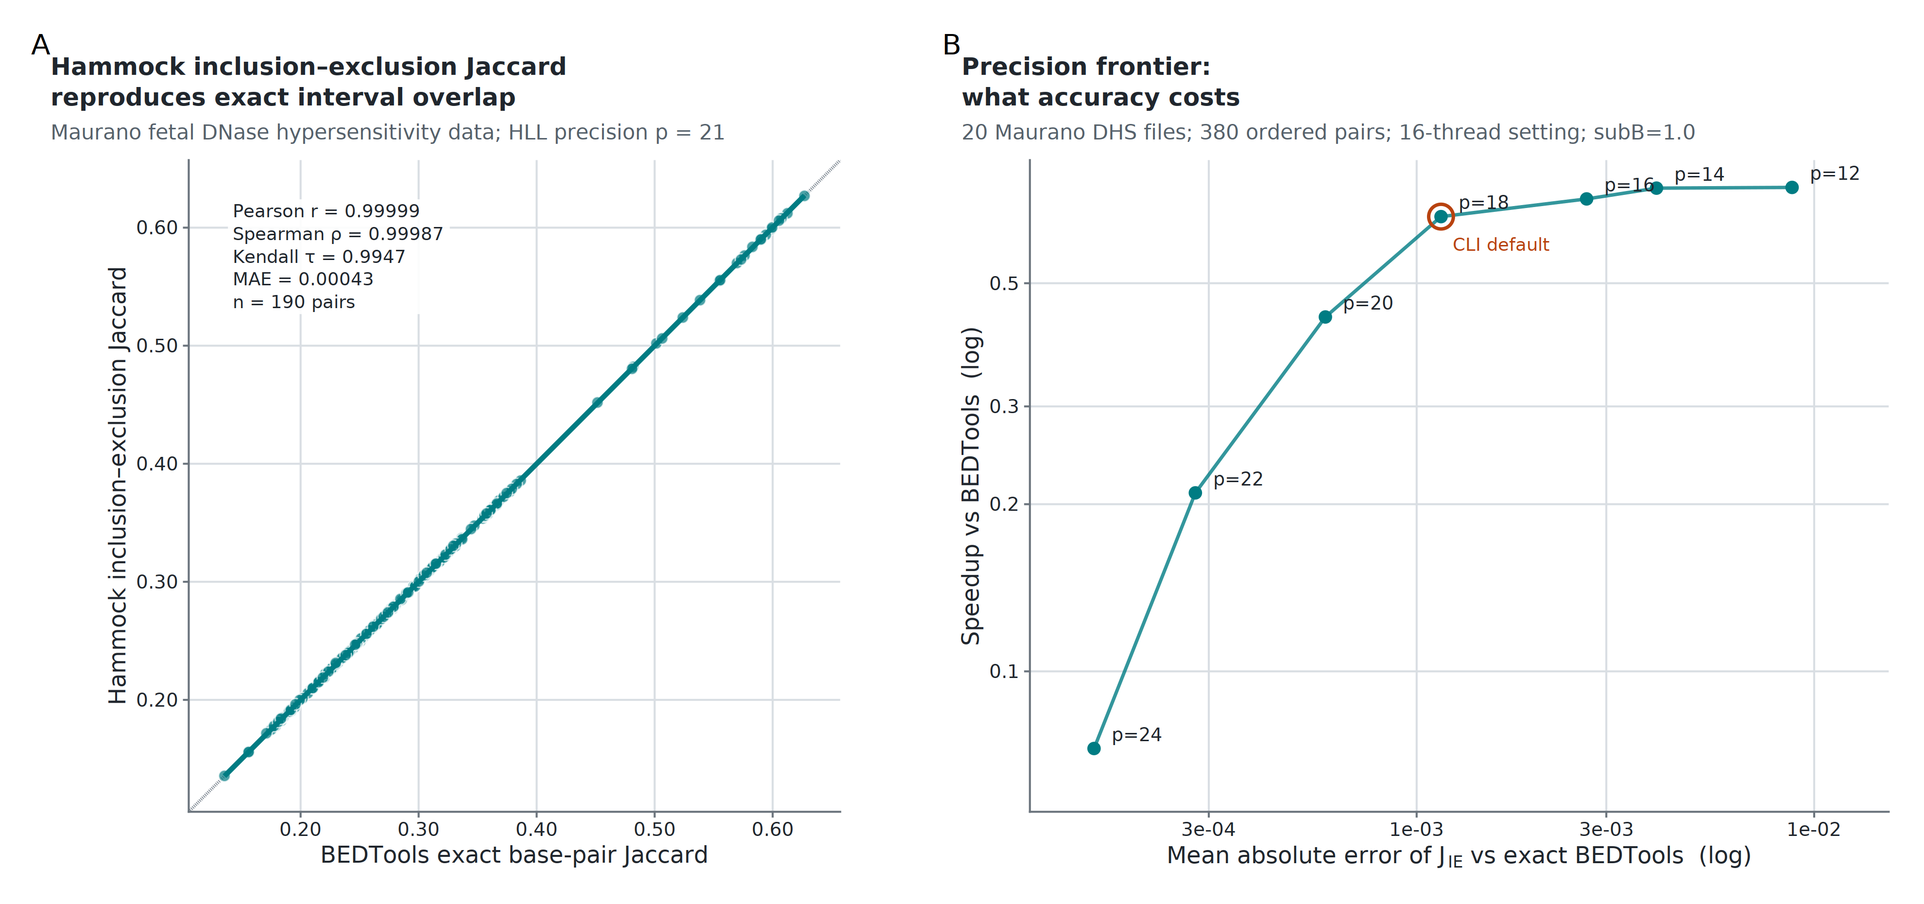
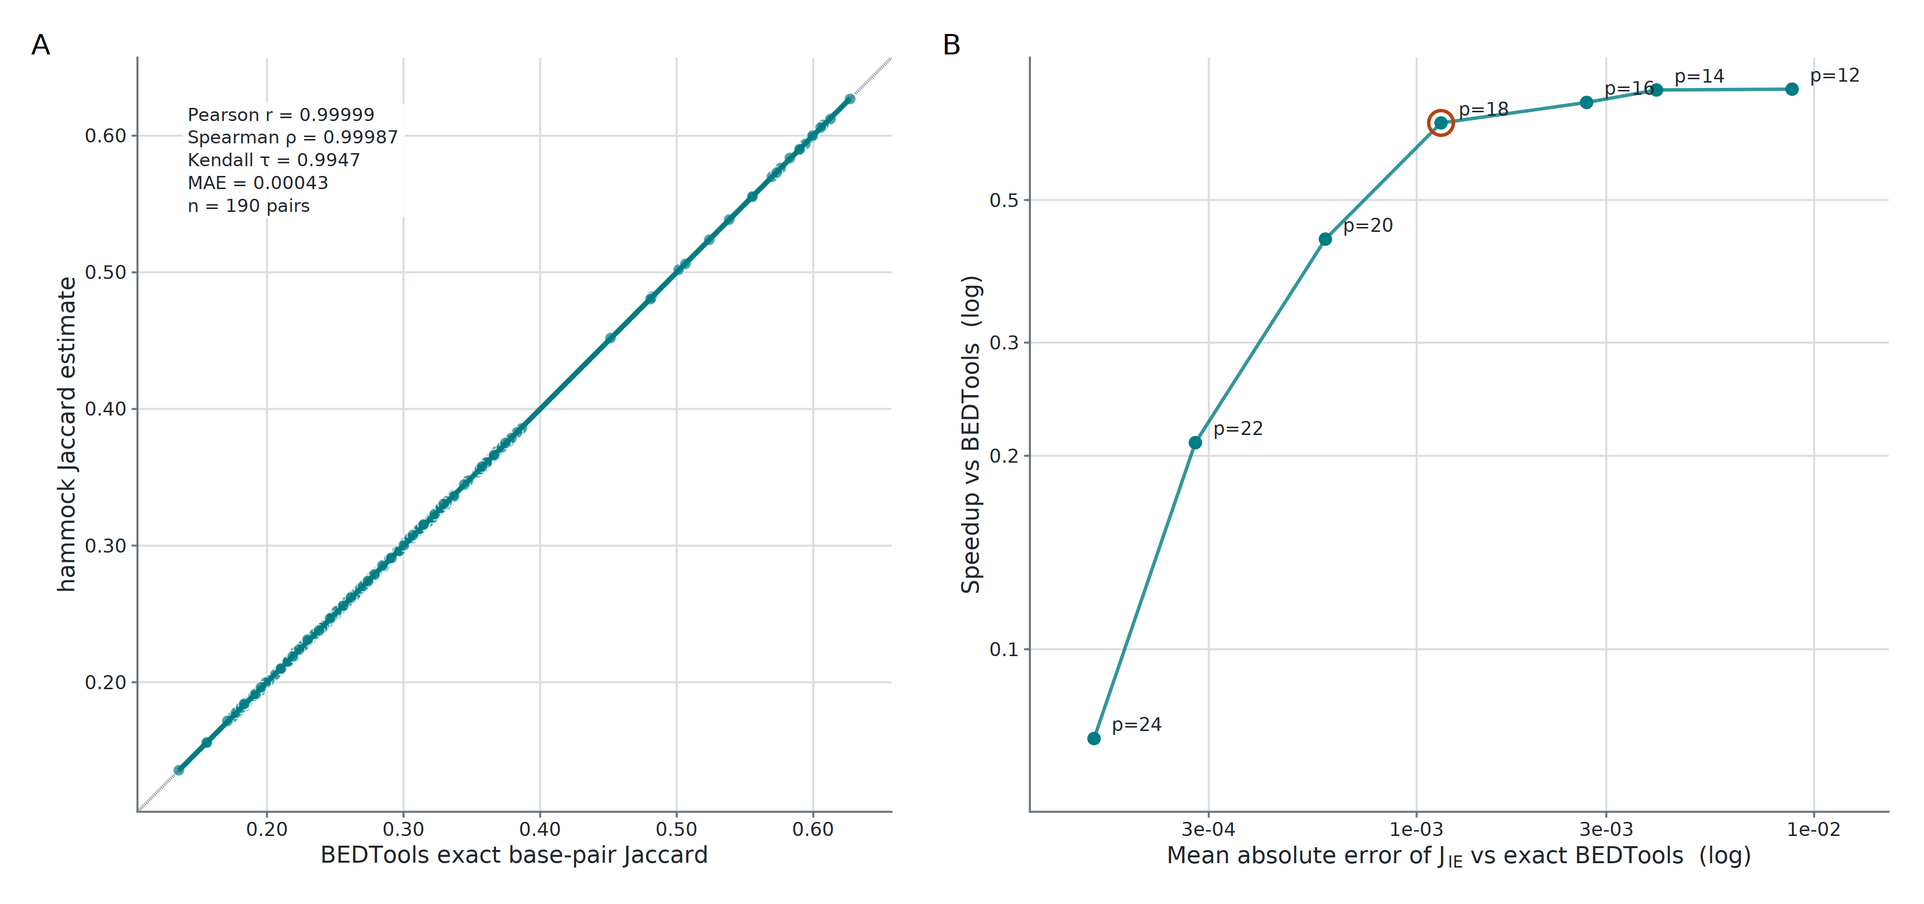
Report unique accuracy pairs and add p18 supplement

diff --git a/experiments/bedtools_benchmark/sweep.py b/experiments/bedtools_benchmark/sweep.py
@@ -200,6 +200,30 @@ def _is_self_pair(key) -> bool:
     return os.path.basename(q) == os.path.basename(r)
 
 
+def _unique_unordered_pairs(values: dict) -> dict:
+    """Collapse reciprocal same-list comparisons to one value per file pair.
+
+    Jaccard and both hammock estimators are symmetric.  Treating A--B and B--A
+    as separate observations doubles the apparent sample count without adding
+    information.  Fail if reciprocal rows ever disagree rather than silently
+    choosing one direction.
+    """
+    unique = {}
+    for (q, r), value in values.items():
+        q_name = os.path.basename(q)
+        r_name = os.path.basename(r)
+        if q_name == r_name:
+            continue
+        key = tuple(sorted((q_name, r_name)))
+        if key in unique and not np.isclose(unique[key], value, rtol=0, atol=0):
+            raise ValueError(
+                f"Reciprocal values disagree for {key}: "
+                f"{unique[key]!r} versus {value!r}"
+            )
+        unique[key] = value
+    return unique
+
+
 def jaccard_error_stats(est: dict, *, vs_bt: dict, vs_hll: dict, prefix: str = "jaccard",
                         drop_self_pairs: bool = False):
     """Compare hammock estimates against TWO ground truths.
@@ -213,16 +237,17 @@ def jaccard_error_stats(est: dict, *, vs_bt: dict, vs_hll: dict, prefix: str = "
     register-equality p_max reference would report the definitional gap as if
     it were precision error.
 
-    drop_self_pairs excludes file-vs-itself comparisons. With one 20-file list
-    passed twice, 20 of the 400 ordered pairs are self-comparisons where both
-    tools return ~1.0 at zero error -- free correctness that dilutes MAE by
-    ~5% (1.152e-3 -> 1.094e-3 at p=18 on Maurano) without measuring anything.
-    Off by default so the synthetic path, where the two lists are disjoint and
-    no key can match, keeps producing byte-identical numbers to the archive.
+    drop_self_pairs excludes file-vs-itself comparisons and collapses reciprocal
+    same-list rows to one unique unordered pair. With one 20-file list passed
+    twice, this yields C(20,2)=190 observations rather than 380 duplicate
+    directions. Off by default so the synthetic path, where the two lists are
+    disjoint, keeps producing byte-identical numbers to the archive.
     """
     out = {}
     if drop_self_pairs:
-        est = {k: v for k, v in est.items() if not _is_self_pair(k)}
+        est = _unique_unordered_pairs(est)
+        vs_bt = _unique_unordered_pairs(vs_bt)
+        vs_hll = _unique_unordered_pairs(vs_hll) if vs_hll else {}
     common_bt = set(est.keys()) & set(vs_bt.keys())
     common_hll = set(est.keys()) & set(vs_hll.keys()) if vs_hll else set()
     if prefix == "jaccard":

diff --git a/paper/draft.md b/paper/draft.md
@@ -87,7 +87,7 @@ Together, the synthetic and real-data benchmarks show that hammock improves the 
 
 ![Figure 4](figures/interval_accuracy.png)
 
-**Figure 4. Inclusion–exclusion estimates closely reproduce exact interval Jaccard, with a tunable precision–runtime tradeoff.** (A) Pairwise comparisons were performed on 20 Maurano fetal-tissue DNase hypersensitivity BED files, yielding 190 unique off-diagonal pairs; self-comparisons were excluded. Hammock's `jaccard_similarity_ie` uses HyperLogLog cardinality estimates with inclusion–exclusion to approximate the same base-pair Jaccard statistic computed exactly by BEDTools. At HyperLogLog precision p=21, the estimates closely track exact BEDTools Jaccard over the observed off-diagonal range (MAE =4.3\times10^{-4}, Pearson r=0.99999, Kendall \tau=0.9947). (B) Accuracy and wall time were evaluated across p=12–24 on the same 20-file corpus using a 16-thread setting and `subB=1.0`. Accuracy was computed over 380 ordered off-diagonal pairs, while wall time is the median of three complete all-pairs runs. Increasing precision reduced MAE from 0.00880 at p=12 to 0.000154 at p=24, while the BEDTools-to-hammock wall-time ratio decreased from 0.744 to 0.0726. All ratios are below 1, consistent with this 20-file corpus lying below the approximately 64-file crossover at which reusable sketches amortize their construction cost in the synthetic scaling benchmark. The circled p=18 point marks the hammock CLI default.
+**Figure 4. Inclusion–exclusion estimates closely reproduce exact interval Jaccard, with a tunable precision–runtime tradeoff.** (A) Pairwise comparisons were performed on 20 Maurano fetal-tissue DNase hypersensitivity BED files, yielding 190 unique off-diagonal pairs; self-comparisons were excluded. Hammock's `jaccard_similarity_ie` uses HyperLogLog cardinality estimates with inclusion–exclusion to approximate the same base-pair Jaccard statistic computed exactly by BEDTools. At HyperLogLog precision p=21, the estimates closely track exact BEDTools Jaccard over the observed off-diagonal range (MAE =4.3\times10^{-4}, Pearson r=0.99999, Kendall \tau=0.9947). (B) Accuracy and wall time were evaluated across p=12–24 on the same 20-file corpus using a 16-thread setting and `subB=1.0`. Accuracy was computed over 190 unique off-diagonal pairs, while wall time is the median of three complete all-pairs runs. Increasing precision reduced MAE from 0.00880 at p=12 to 0.000154 at p=24, while the BEDTools-to-hammock wall-time ratio decreased from 0.744 to 0.0726. All ratios are below 1, consistent with this 20-file corpus lying below the approximately 64-file crossover at which reusable sketches amortize their construction cost in the synthetic scaling benchmark. The circled p=18 point marks the hammock CLI default.
 
 **Figure 4 generation.** Both panels are generated in one workflow by `paper/interval_accuracy/plot_interval_accuracy.R` and written to `paper/figures/interval_accuracy.png`. Panel A uses `docs/data/maurano_bedtools_ref.tsv` and `docs/data/hammock_hll_p{18,21,23}_jaccB_full.csv`. Panel B uses `docs/data/sweep_precision_maurano_p18_t16.csv`; wall time is summarized by the median at each precision, with the observed replicate range shown vertically, and accuracy is the MAE of `jaccard_similarity_ie` against exact BEDTools Jaccard.
 
@@ -272,6 +272,14 @@ Caveat worth carrying: `jaccard_similarity_ie` is censored at zero by the non-ne
 
 ## Supplementary Figures and Tables
 
+### Figure S1 — interval accuracy at the default precision
+
+![Figure S1](figures/interval_accuracy_p18.png)
+
+**Figure S1. Inclusion–exclusion estimates closely reproduce exact interval Jaccard at the default HyperLogLog precision.** (A) Pairwise comparisons on 20 Maurano et al. fetal-tissue DNase hypersensitivity BED files yielded 190 unique off-diagonal pairs after self-comparisons and reciprocal duplicates were excluded. At the hammock CLI default, p=18, `jaccard_similarity_ie` closely tracked exact BEDTools base-pair Jaccard (MAE =0.00115, Pearson r=0.99991, and Kendall τ=0.9883). (B) The precision–runtime analysis from Figure 4 is repeated for context. Across p=12–24, accuracy is the MAE over the same 190 unique pairs and wall time is the median of three complete all-pairs runs using 16 threads and `subB=1.0`; vertical ranges show the observed replicate range. The circled p=18 point marks the CLI default.
+
+**Figure S1 generation.** `paper/interval_accuracy/plot_interval_accuracy.R` with its optional reference-precision argument set to 18, using `docs/data/maurano_bedtools_ref.tsv`, `docs/data/hammock_hll_p18_jaccB_full.csv`, and `docs/data/sweep_precision_maurano_p18_t16.csv`; output is `paper/figures/interval_accuracy_p18.png`.
+
 ### Figure S5a — tissue organization at the numerical optimum
 
 ![Figure S5a, panel A](figures/sequence_tissue_clustering_k20_w20.png)
@@ -314,7 +322,7 @@ Caveat worth carrying: `jaccard_similarity_ie` is censored at zero by the non-ne
 
 <img src="figures/precision_frontier.png" alt="Figure S8" width="850">
 
-**Figure S8.** x = MAE of `jaccard_similarity_ie` vs exact BEDTools (log), y = speedup vs BEDTools based on the paired reduced/base-arm wall time (log), one point per HyperLogLog precision p ∈ {12,14,16,18,20,22,24}, on the 20-file Maurano corpus (380 ordered pairs after self-pair exclusion, subB=1.0, 3 replicates, medians). Deliberately not twin y-axes against p: twin log axes have no canonical registration, so an apparent crossing would be an artifact of axis placement rather than a property of the data. Plotted this way, iso-accuracy is a vertical line and "slower than BEDTools" is the region below y=1 — which is every precision tested on this corpus (0.744× at p=12 down to 0.0726× at p=24). Accuracy improves 57× from p=12 to p=24 (MAE 8.8e-3 → 1.5e-4) while speed falls ~10×, so there is no accuracy/speed knee to trade toward on this corpus — the choice of p here is purely an accuracy decision. This panel must be read together with Figure 3A, not against it: at N=20 (this corpus) hammock is slower than BEDTools at every precision, while Figure 3A reports 8.4× at N=512 — both are true, because Maurano sits well below the N≈64 crossover, so sketching cost has not yet been amortized over enough pairs. `reg_eq_similarity` (register-equality) cannot usefully appear on the accuracy axis: its MAE is 0.1374–0.1383 across the whole precision sweep (varying 1.01× while `_ie`'s MAE moves 57×), because it is dominated by the register-equality chance-agreement floor rather than by sampling noise — the same floor Figure S9 makes visible directly.
+**Figure S8.** x = MAE of `jaccard_similarity_ie` vs exact BEDTools (log), y = speedup vs BEDTools based on the paired reduced/base-arm wall time (log), one point per HyperLogLog precision p ∈ {12,14,16,18,20,22,24}, on the 20-file Maurano corpus (190 unique off-diagonal pairs, subB=1.0, 3 replicates, medians). Deliberately not twin y-axes against p: twin log axes have no canonical registration, so an apparent crossing would be an artifact of axis placement rather than a property of the data. Plotted this way, iso-accuracy is a vertical line and "slower than BEDTools" is the region below y=1 — which is every precision tested on this corpus (0.744× at p=12 down to 0.0726× at p=24). Accuracy improves 57× from p=12 to p=24 (MAE 8.8e-3 → 1.5e-4) while speed falls ~10×, so there is no accuracy/speed knee to trade toward on this corpus — the choice of p here is purely an accuracy decision. This panel must be read together with Figure 3A, not against it: at N=20 (this corpus) hammock is slower than BEDTools at every precision, while Figure 3A reports 8.4× at N=512 — both are true, because Maurano sits well below the N≈64 crossover, so sketching cost has not yet been amortized over enough pairs. `reg_eq_similarity` (register-equality) cannot usefully appear on the accuracy axis: its MAE is 0.1374–0.1383 across the whole precision sweep (varying 1.01× while `_ie`'s MAE moves 57×), because it is dominated by the register-equality chance-agreement floor rather than by sampling noise — the same floor Figure S9 makes visible directly.
 
 **Figure S8 generation.** `paper/pairwise_scaling/plot_precision_frontier.R` from `docs/data/sweep_precision_maurano_p18_t16.csv` (job 29670793, node c432; the t=8 companion `sweep_precision_maurano_p18_t8.csv` from the same job is a cross-check, not a second plotted series — accuracy at t=8 is bit-identical to t=16, since thread count changes only how fast a deterministic sketch is built, not its content, and this was verified exactly: max |ΔMAE| = 0 at every precision). The script pairs `jaccard_ie_mae_vs_bt` from the metrics arm with `wall_time` from the reduced/base arm; it does not use the metrics arm's `metrics_wall_time`. The p=18 base-arm speedup is 0.66× here, whereas Figure 3B's full-metrics IE speedup at eight threads is 0.75×. That difference reflects both thread count and output workload, so the two y-values are not a direct cross-check.
 

diff --git a/paper/outline.md b/paper/outline.md
@@ -61,7 +61,7 @@ Together, the synthetic and real-data benchmarks show that hammock improves the 
 
 ![Figure 4](figures/interval_accuracy.png)
 
-**Figure 4. Inclusion–exclusion estimates closely reproduce exact interval Jaccard, with a tunable precision–runtime tradeoff.** (A) Pairwise comparisons were performed on 20 Maurano fetal-tissue DNase hypersensitivity BED files, yielding 190 unique off-diagonal pairs; self-comparisons were excluded. Hammock's `jaccard_similarity_ie` uses HyperLogLog cardinality estimates with inclusion–exclusion to approximate the same base-pair Jaccard statistic computed exactly by BEDTools. At HyperLogLog precision p=21, the estimates closely track exact BEDTools Jaccard over the observed off-diagonal range (MAE =4.3\times10^{-4}, Pearson r=0.99999, Kendall \tau=0.9947). (B) Accuracy and wall time were evaluated across p=12–24 on the same 20-file corpus using a 16-thread setting and `subB=1.0`. Accuracy was computed over 380 ordered off-diagonal pairs, while wall time is the median of three complete all-pairs runs. Increasing precision reduced MAE from 0.00880 at p=12 to 0.000154 at p=24, while the BEDTools-to-hammock wall-time ratio decreased from 0.744 to 0.0726. All ratios are below 1, consistent with this 20-file corpus lying below the approximately 64-file crossover at which reusable sketches amortize their construction cost in the synthetic scaling benchmark. The circled p=18 point marks the hammock CLI default.
+**Figure 4. Inclusion–exclusion estimates closely reproduce exact interval Jaccard, with a tunable precision–runtime tradeoff.** (A) Pairwise comparisons were performed on 20 Maurano fetal-tissue DNase hypersensitivity BED files, yielding 190 unique off-diagonal pairs; self-comparisons were excluded. Hammock's `jaccard_similarity_ie` uses HyperLogLog cardinality estimates with inclusion–exclusion to approximate the same base-pair Jaccard statistic computed exactly by BEDTools. At HyperLogLog precision p=21, the estimates closely track exact BEDTools Jaccard over the observed off-diagonal range (MAE =4.3\times10^{-4}, Pearson r=0.99999, Kendall \tau=0.9947). (B) Accuracy and wall time were evaluated across p=12–24 on the same 20-file corpus using a 16-thread setting and `subB=1.0`. Accuracy was computed over 190 unique off-diagonal pairs, while wall time is the median of three complete all-pairs runs. Increasing precision reduced MAE from 0.00880 at p=12 to 0.000154 at p=24, while the BEDTools-to-hammock wall-time ratio decreased from 0.744 to 0.0726. All ratios are below 1, consistent with this 20-file corpus lying below the approximately 64-file crossover at which reusable sketches amortize their construction cost in the synthetic scaling benchmark. The circled p=18 point marks the hammock CLI default.
 
 **Figure 4 generation.** Both panels are generated in one workflow by `paper/interval_accuracy/plot_interval_accuracy.R` and written to `paper/figures/interval_accuracy.png`. Panel A uses `docs/data/maurano_bedtools_ref.tsv` and `docs/data/hammock_hll_p{18,21,23}_jaccB_full.csv`. Panel B uses `docs/data/sweep_precision_maurano_p18_t16.csv`; wall time is summarized by the median at each precision, with the observed replicate range shown vertically, and accuracy is the MAE of `jaccard_similarity_ie` against exact BEDTools Jaccard.
 
@@ -95,6 +95,14 @@ Together, the synthetic and real-data benchmarks show that hammock improves the 
 **Figure 7. Sequence parameters separate numerical agreement from biological recovery.** Sequence-mode parameter configurations were evaluated on 20 Maurano fetal-tissue DNase hypersensitivity interval sets at HyperLogLog precision p=24 using the inclusion–exclusion Jaccard estimate (`jaccard_similarity_ie`). Each point represents one combination of k-mer size (k) and minimizer-window size (w); the x-axis gives Pearson correlation with exact BEDTools Jaccard across pairwise comparisons, and the y-axis gives adjusted Rand index (ARI) for recovery of the ten annotated tissue classes after clustering. Point color encodes k and point size encodes w. The configuration with greatest numerical agreement, k=20 and w=20 (r=0.99997; ARI=0.693), is emphasized by a green circle. The k=10, w=30 biological optimum used in Figure 6 (ARI=0.910; r=0.946) is marked by a yellow circle. Thus the parameters that best reproduce exact pairwise Jaccard values differ from those that best recover the annotated tissue organization. The exact BEDTools reference was independently regenerated with BEDTools 2.30.0 over all 400 ordered pairs and matched the checked-in reference byte-for-byte, with 0 of 190 unique pairs asymmetric.
 
 **Figure 7 generation.** The figure is generated by `paper/parameter_objective_tradeoff/plot_parameter_objective_tradeoff_estimators.R` and written to `paper/figures/parameter_objective_tradeoff_estimators.png`. The script reads `docs/data/mode_d_summary.csv`, supplementing the inclusion–exclusion rows from `experiments/maurano_dhs_validation/results/mode_d_summary.csv` when they are absent from the staged paper copy, and filters to `jaccard_similarity_ie`, p=24, BEDTools reference, k≥8, and non-missing Pearson/ARI values. It identifies the greatest-Pearson configuration and verifies the k=10, w=30 ARI optimum.
+
+### Supplementary Figure S1 — interval accuracy at the default precision
+
+![Figure S1](figures/interval_accuracy_p18.png)
+
+**Figure S1. Inclusion–exclusion estimates closely reproduce exact interval Jaccard at the default HyperLogLog precision.** (A) Pairwise comparisons on 20 Maurano et al. fetal-tissue DNase hypersensitivity BED files yielded 190 unique off-diagonal pairs after self-comparisons and reciprocal duplicates were excluded. At the hammock CLI default, p=18, `jaccard_similarity_ie` closely tracked exact BEDTools base-pair Jaccard (MAE =0.00115, Pearson r=0.99991, and Kendall τ=0.9883). (B) The precision–runtime analysis from Figure 4 is repeated for context. Across p=12–24, accuracy is the MAE over the same 190 unique pairs and wall time is the median of three complete all-pairs runs using 16 threads and `subB=1.0`; vertical ranges show the observed replicate range. The circled p=18 point marks the CLI default.
+
+**Figure S1 generation.** `paper/interval_accuracy/plot_interval_accuracy.R` with its optional reference-precision argument set to 18, using `docs/data/maurano_bedtools_ref.tsv`, `docs/data/hammock_hll_p18_jaccB_full.csv`, and `docs/data/sweep_precision_maurano_p18_t16.csv`; output is `paper/figures/interval_accuracy_p18.png`.
 
 ### Supplementary Figure S5a — tissue organization at the numerical optimum
 

diff --git a/docs/paper_outline.md b/docs/paper_outline.md
@@ -508,9 +508,9 @@ N=2048.
 ### Supplementary Figure S8 — Precision frontier (`paper/figures/precision_frontier.png`)
 
 Generated by `paper/pairwise_scaling/plot_precision_frontier.R` from
-`docs/data/sweep_precision_maurano_p18_t16.csv` (20 Maurano DHS files, 380
-ordered pairs after self-pair exclusion, subB=1.0, p ∈ {12,14,16,18,20,22,24},
-3 replicates, means). The t=8 companion (`sweep_precision_maurano_p18_t8.csv`)
+`docs/data/sweep_precision_maurano_p18_t16.csv` (20 Maurano DHS files, 190
+unique off-diagonal pairs, subB=1.0, p ∈ {12,14,16,18,20,22,24},
+3 replicates, medians). The t=8 companion (`sweep_precision_maurano_p18_t8.csv`)
 is the cross-check, not a second series.
 
 **x = MAE of `jaccard_similarity_ie` vs exact BEDTools (log), y = speedup vs
@@ -541,9 +541,10 @@ At no precision in this sweep does hammock beat BEDTools on this corpus.
   because it is dominated by the register-equality chance-agreement floor, not
   by sampling noise. Precision does not fix it (CLAUDE.md divergence #2), and
   plotting it would draw a vertical line implying precision buys nothing.
-- **Two gates the script enforces and dies on.** Pair count must be exactly 380
-  (400 minus 20 self-pairs) — at 400 every MAE would be ~5% low from twenty
-  exact-1.0 rows; and accuracy at t=8 must be *bit-identical* to t=16, since
+- **Two gates the script enforces and dies on.** Pair count must be exactly 190
+  ($\binom{20}{2}$ unique off-diagonal pairs) — at 400 every MAE would be ~5%
+  low from twenty exact-1.0 rows and would also double-count reciprocal pairs;
+  accuracy at t=8 must be *bit-identical* to t=16, since
   threads change only how fast a deterministic sketch is built. Measured
   max |ΔMAE| = 0, exactly.
 - Caveat for the caption: one corpus, one node, subB=1.0 throughout. The p=18

diff --git a/docs/bedtools-baseline-retraction.md b/docs/bedtools-baseline-retraction.md
@@ -260,7 +260,7 @@ literal 123 exec/s ceiling (that framing is separately retracted above).
 
 **Supplementary Fig S8 (precision frontier, `paper/figures/precision_frontier.png`).**
 Job 29670793, node c432, `docs/data/sweep_precision_maurano_p18_t16.csv` +
-`..._t8.csv` (Maurano, 380 ordered pairs, subB=1.0; replaces the pre-fix pair
+`..._t8.csv` (Maurano, 190 unique off-diagonal pairs, subB=1.0; the raw output contains both reciprocal directions; replaces the pre-fix pair
 generated 18:00, job 29651773). At the CLI default p=18, t=16: hammock 6.41 s
 vs bedtools 4.40 s reference (**0.69×**, i.e. slower — N=20 is below the N≈64
 crossover, consistent with Panel B); at t=8, 0.81×. hammock does not beat
@@ -286,7 +286,8 @@ reps each), confirming `jaccard_similarity_ie` really is bit-identical
 between the retargeted arm and the old `--metrics` arm, as the fused-pass
 argument predicted rather than merely asserted. (2) The retargeted arm's own
 overhead over the register-equality pass is 0.2–1.25% here (not the ~9-10%
-seen at N=512 on synthetic data) — at N=20/380 pairs the sketch-construction
+seen at N=512 on synthetic data) — at N=20/400 timed ordered pairs (190 unique
+off-diagonal accuracy observations) the sketch-construction
 phase (~9 s) completely dwarfs the pairwise union pass (~0.015 s), so there
 is essentially nothing for a write-cost saving to be a percentage *of*.
 S8's plotted speedup axis reads off the register-equality arm's `wall_time`

diff --git a/docs/precision-frontier-maurano.md b/docs/precision-frontier-maurano.md
@@ -5,7 +5,7 @@ Job 29651773, node c718, one exclusive allocation, 2026-08-09. Data:
 (`sweep.py --axis precision --corpus maurano`, 20 real fetal DHS files passed as
 both operands, 3 replicates, means).
 
-**400 ordered pairs are timed; 380 carry the accuracy.** The 20 self-pairs are
+**400 ordered pairs are timed; 190 unique off-diagonal pairs carry the accuracy.** The 20 self-pairs are
 excluded from MAE — both tools return ~1.0 there at zero error, which is free
 correctness that dilutes MAE ~5% without measuring anything. They are still part
 of the timed workload, which is why the two counts differ.
@@ -28,8 +28,8 @@ of the timed workload, which is why the two counts differ.
 (renamed to `..._full.csv` in the metrics-column restructure,
 `docs/seed-metrics-column-restructure.md` — same file content, tag added).
 But note what that does and does not show: `jaccard_ie` is *exactly* symmetric
-(0 of 190 pairs asymmetric, exact comparison), so MAE over 380 ordered pairs is
-**algebraically guaranteed** to equal MAE over 190 unordered pairs. It confirms
+(0 of 190 pairs asymmetric, exact comparison), so the MAE over 190 unique pairs
+is **algebraically guaranteed** to equal the former MAE over 380 ordered rows. It confirms
 the corpus, the self-pair filter and the column parse — a count-and-identity
 check, not an independent statistical validation. Do not cite it as the latter.
 
